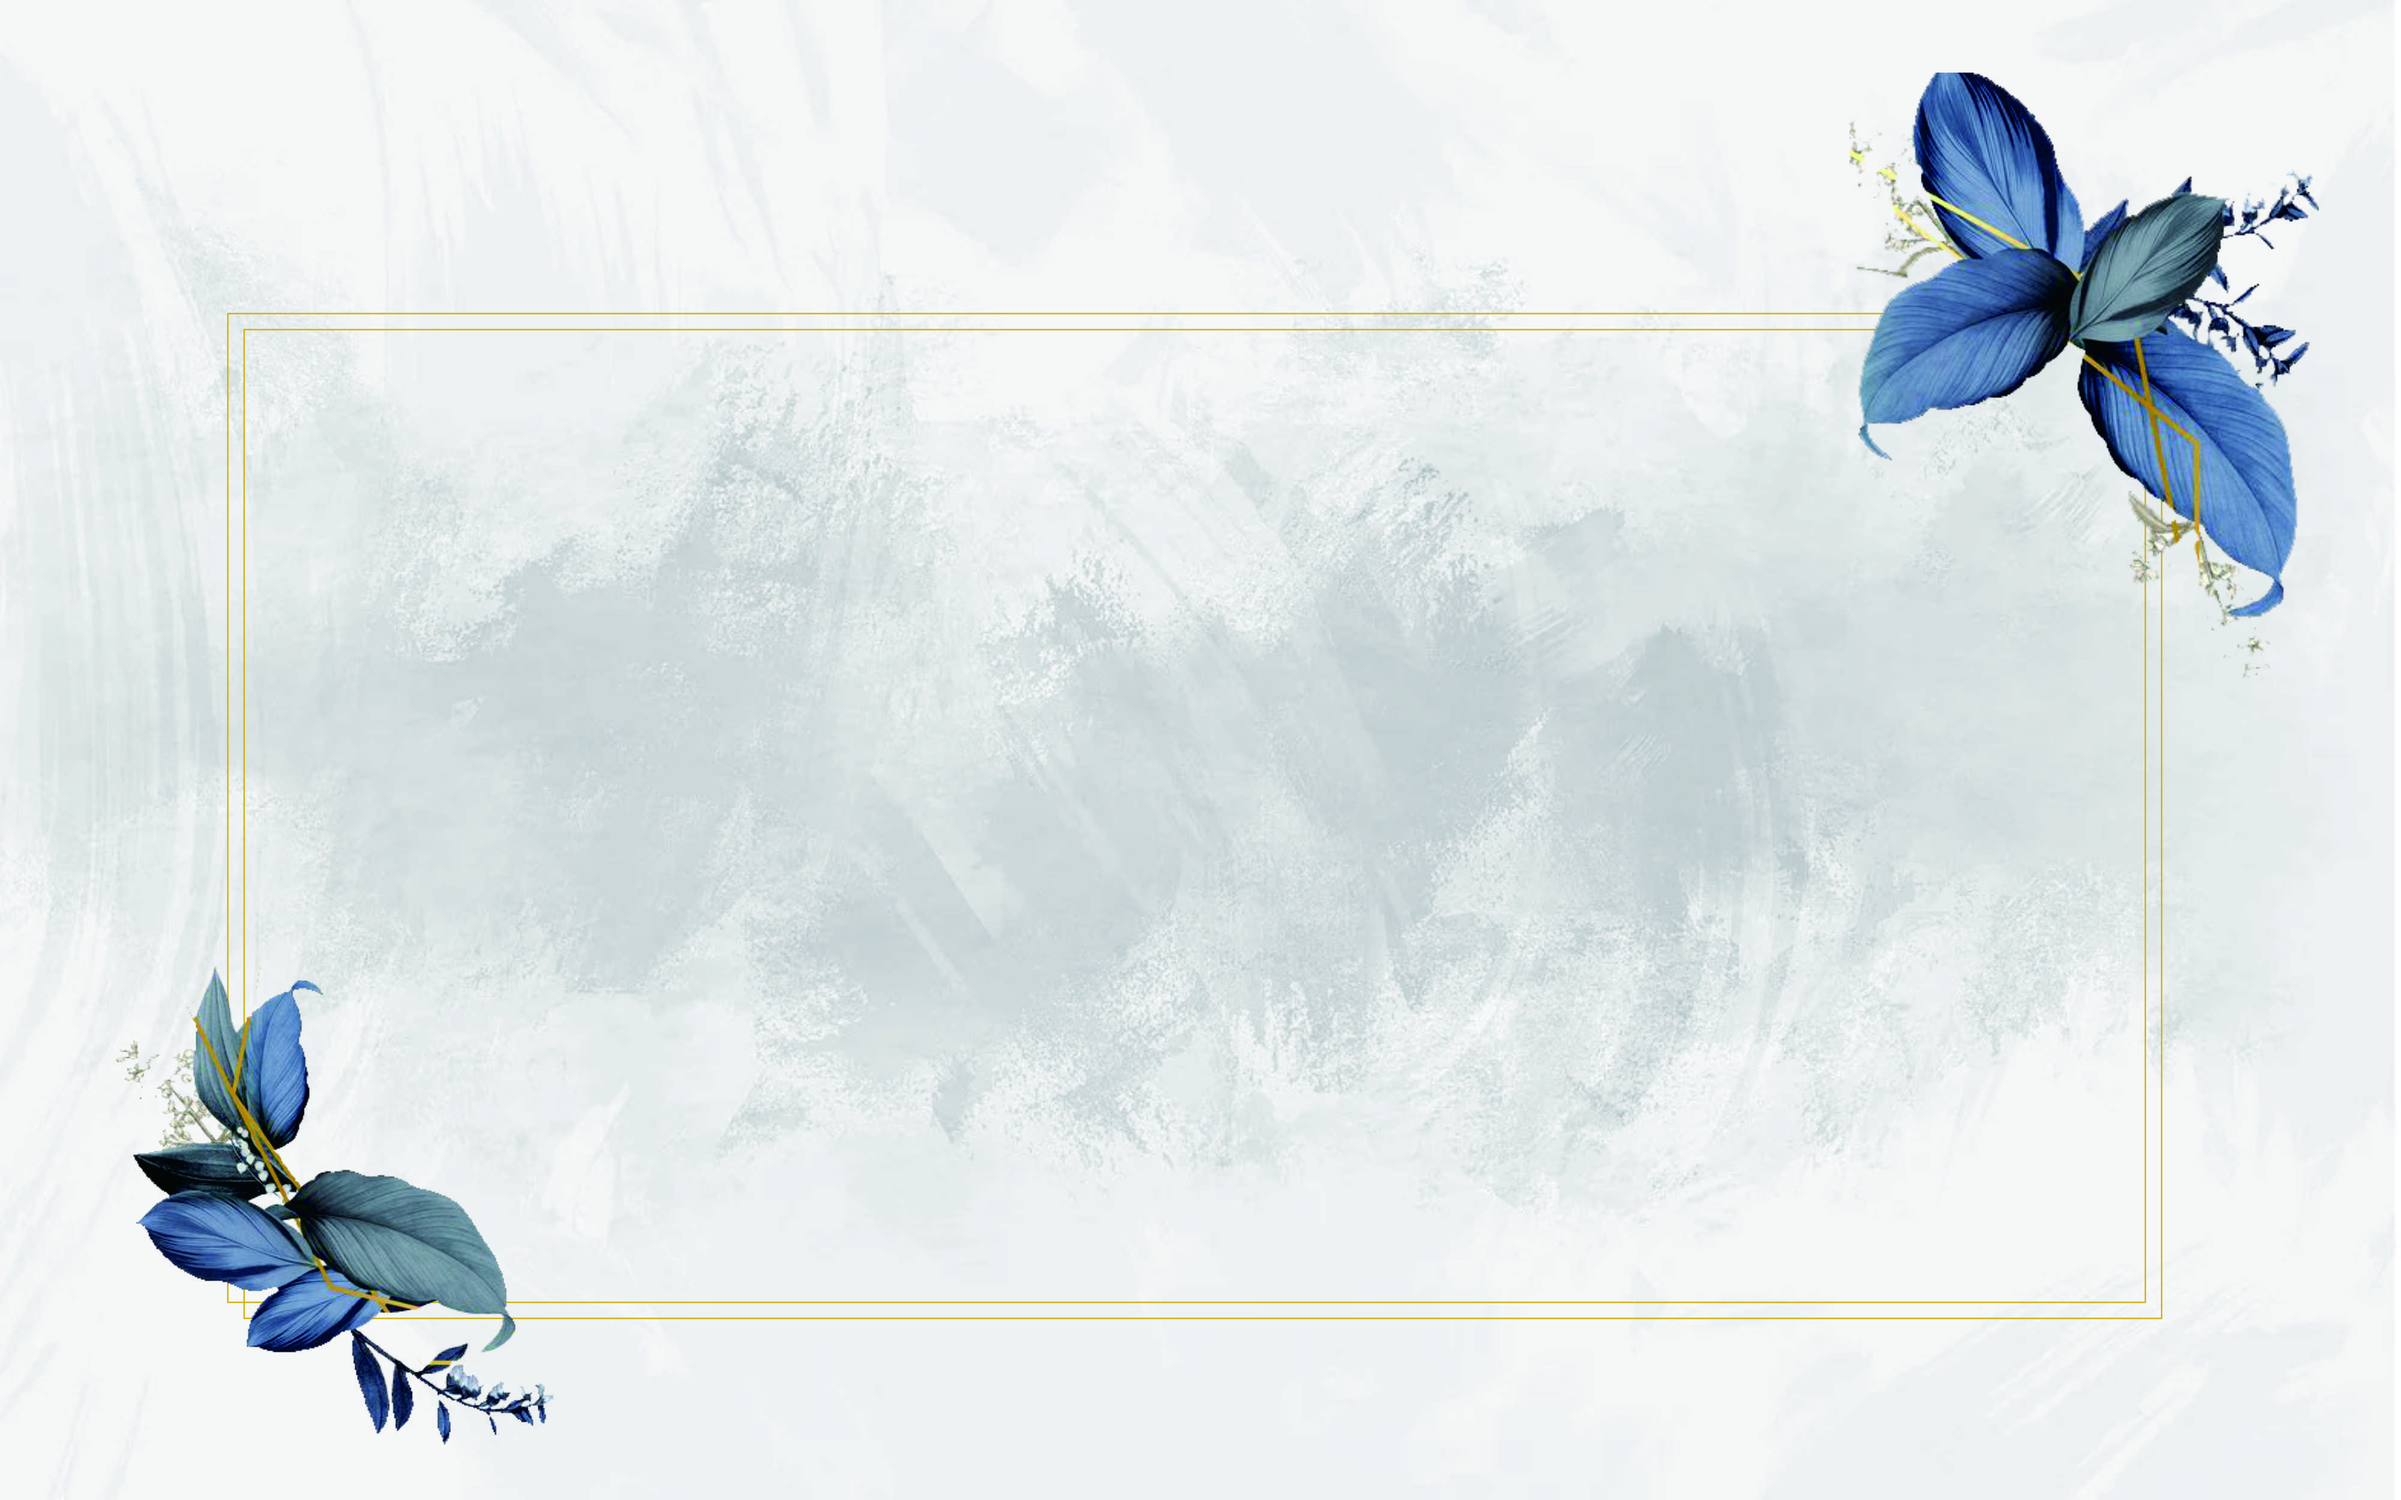
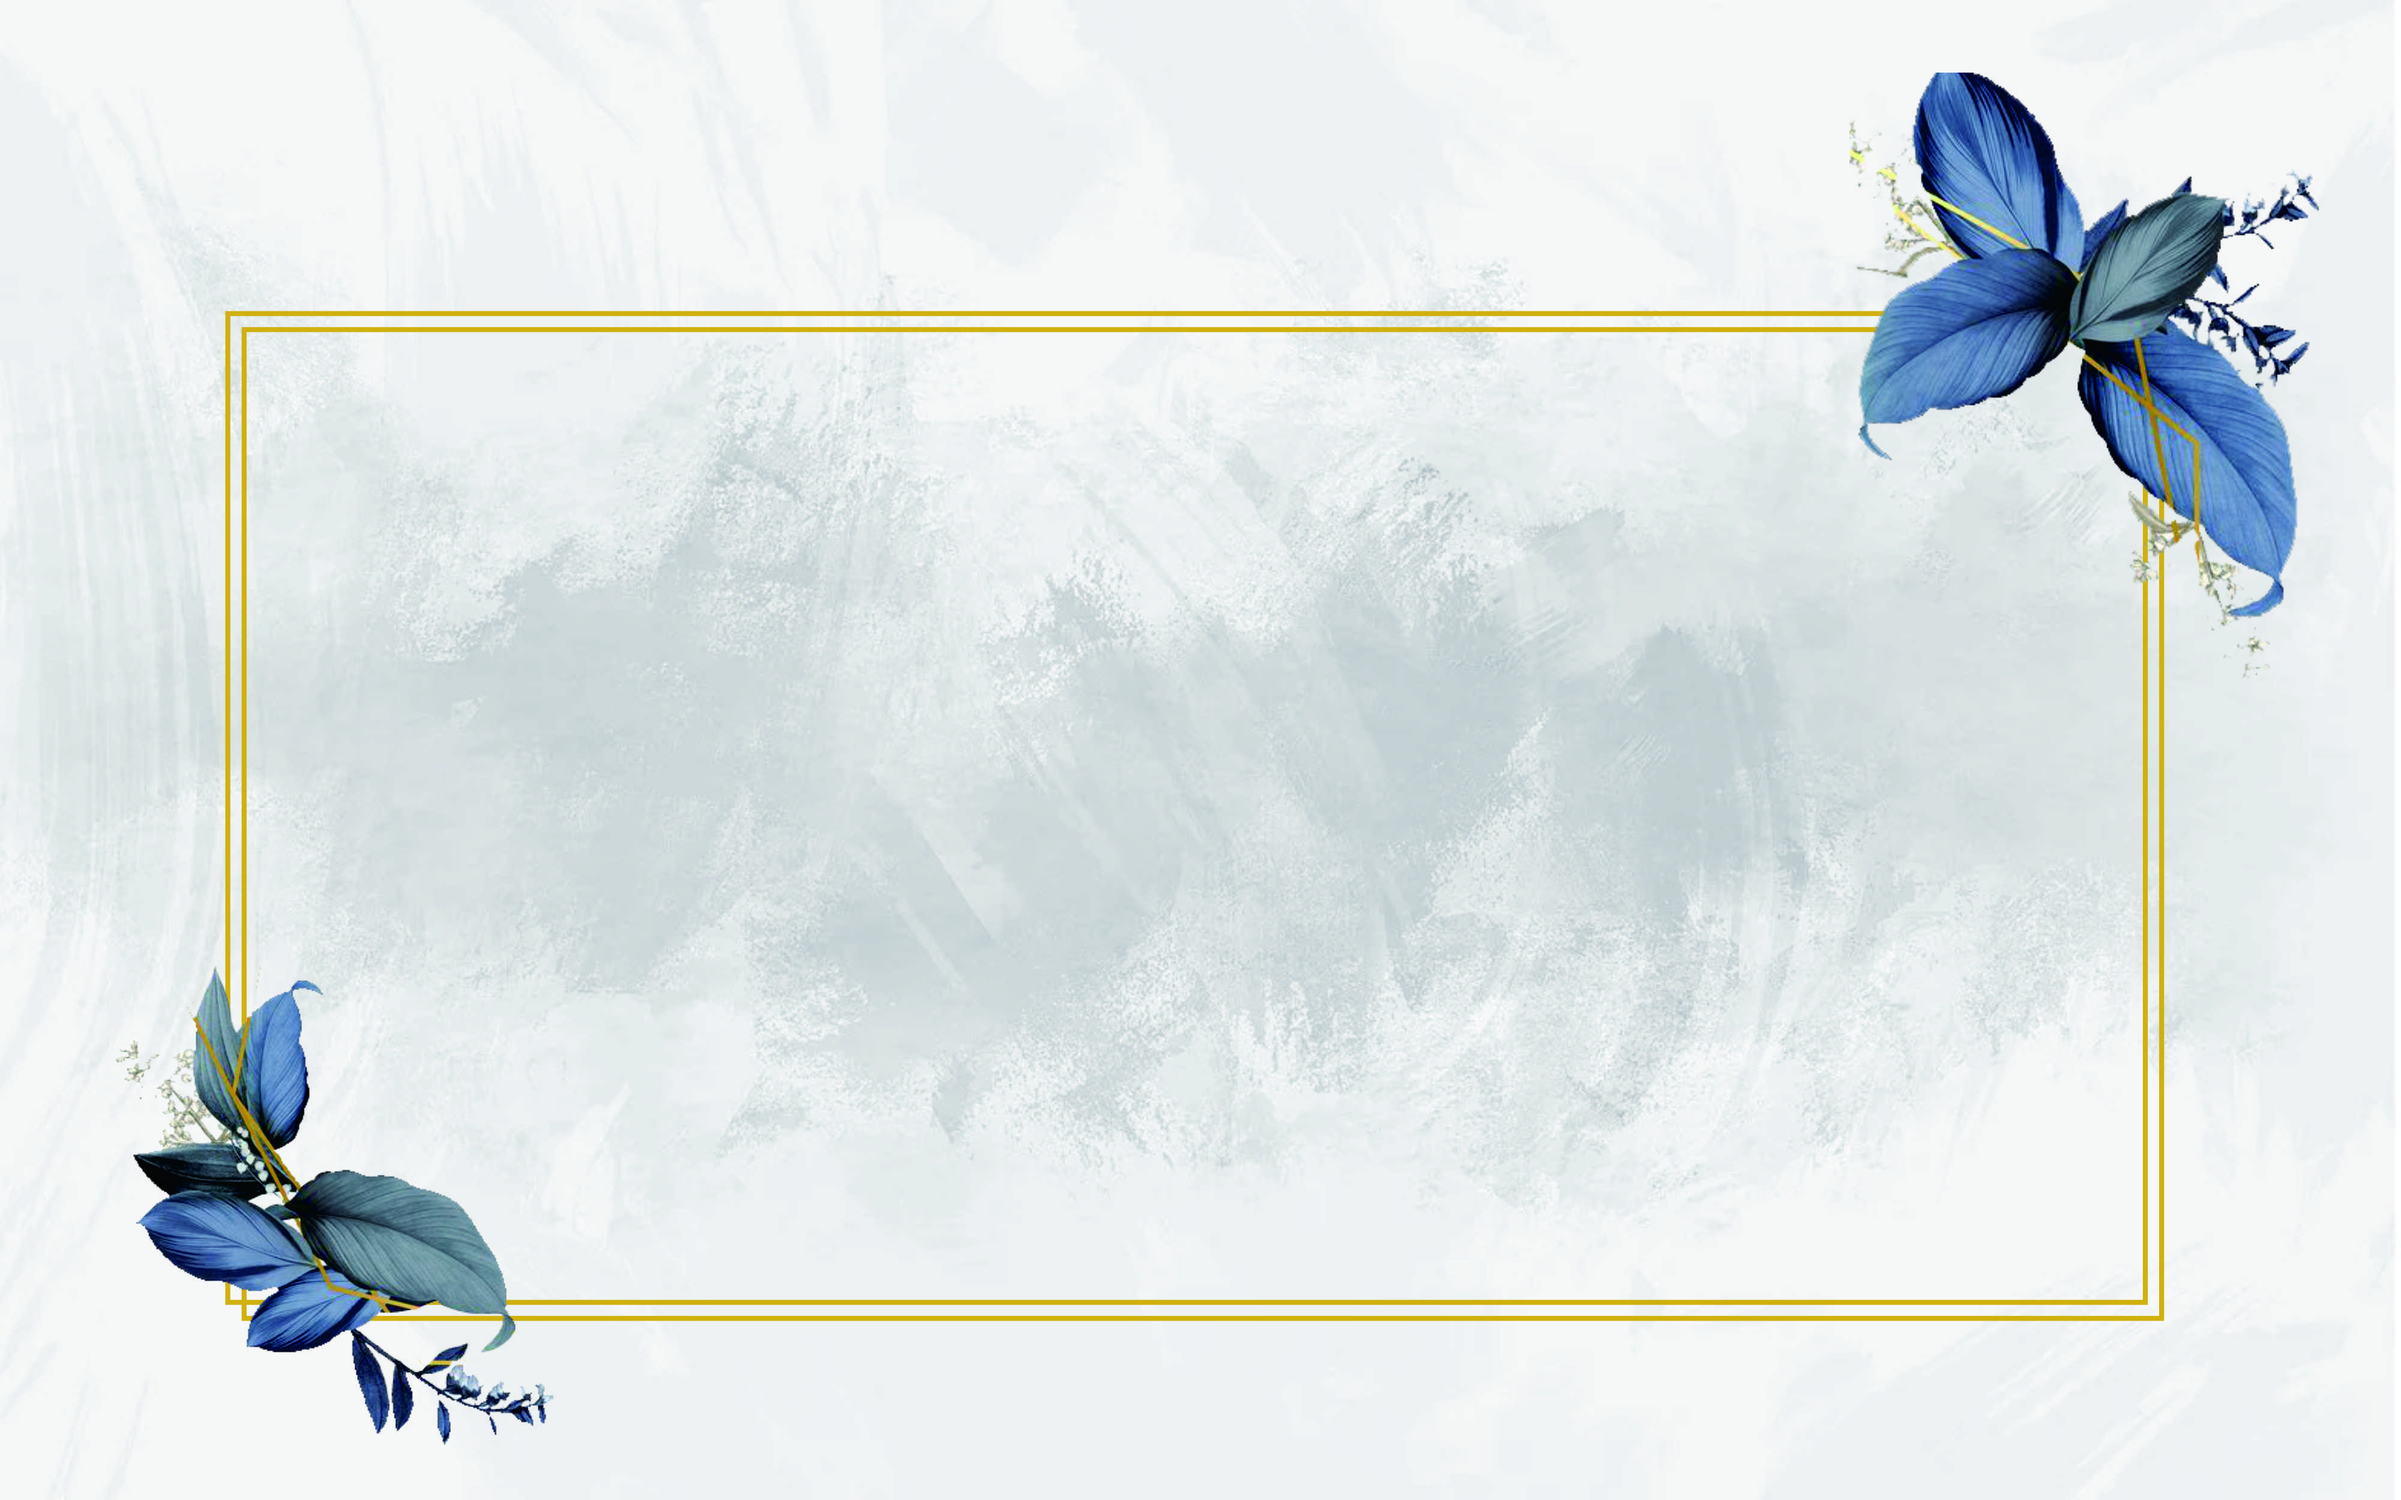
frame tebal

Changed region(s): [[0.2188, 0.4056, 0.9062, 0.9048], [0.0938, 0.1872, 0.7812, 0.6552], [0.1562, 0.8736, 0.1875, 0.9048]]

diff --git a/src/components/WeddingSection/index.js b/src/components/WeddingSection/index.js
@@ -6,6 +6,7 @@ import ButtonLive from './ButtonLive';
 import { styWrapper } from './styles';
 import { AnimationOnScroll } from 'react-animation-on-scroll';
 import Fade from 'react-reveal//Fade';
+import Transition1 from '@assets/images/wedding-transition.png';
 
 function WeddingSection({ isInvitation }) {
   const renderGuestInfo = () => {
@@ -24,6 +25,7 @@ function WeddingSection({ isInvitation }) {
       <div id="fh5co-event" css={styWrapper}>
         <div className="overlay section--bg-fixed" />
         <div className="container">
+          <img src={Transition1} width="100%" height="80%" alt="groom" loading="lazy" />
           <AnimationOnScroll animateIn="animate__fadeInUp">
             <div className="row">
               <div className="col-md-8 col-md-offset-2 text-center fh5co-heading">

diff --git a/src/components/HelloSection/styles.js b/src/components/HelloSection/styles.js
@@ -1,16 +1,18 @@
 import { css } from '@emotion/core';
 import Background from '@assets/images/bg-couple.jpg';
 import Background2 from '@assets/images/bg-couple2.jpg';
-import Flower1 from '@assets/images/flower1.png';
+// import Flower1 from '@assets/images/flower1.png';
 
 export const styWrapperCouple = css`
 
   background-size: cover;
   background-image: url(${Background});
-  margin-top: 0px;
+  margin-top: 10px;
+  padding-top: 30px;
   background-position: center;
   width: 100%;
   height: 100%;
+  max-height: 100%;
   display: flex;
   flex: 100%;
   justify-content: center;

diff --git a/src/components/WeddingSection/styles.js b/src/components/WeddingSection/styles.js
@@ -16,6 +16,10 @@ export const styWrapper = css`
     font-family: sans-serif;
   }
 
+  .transition-top {
+    
+  }
+
   .sub-title {
     color: #fff !important;
     font-size: 16px;
